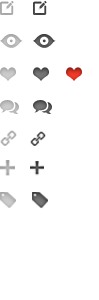
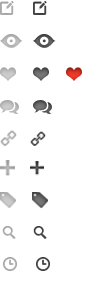
Adding images and styles to new custom fields on teach

diff --git a/style.css b/style.css
@@ -343,6 +343,24 @@ body.teach .post-header {
 	color: #f43a27;
 }
 
+.blog-length a {
+	padding-left: 23px;
+	background: url('images/post-meta.png') 0 1px no-repeat;
+}
+.blog-length a:hover {
+	background-position: 0 -29px;
+	color: #000;
+}
+
+.blog-pdf a {
+	padding-left: 23px;
+	background: url('images/post-meta.png') 0 1px no-repeat;
+}
+.blog-pdf a:hover {
+	background-position: 0 -29px;
+	color: #000;
+}
+
 /* ---------------------------------------- */
 /* blog - posts */
 
